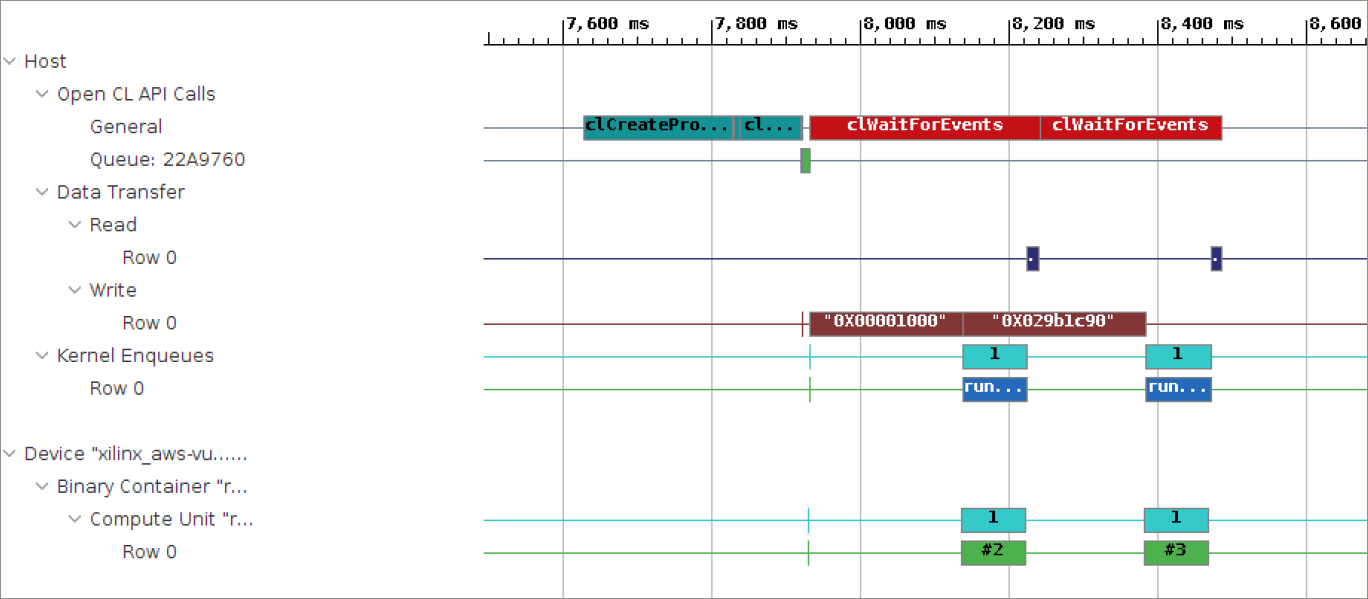
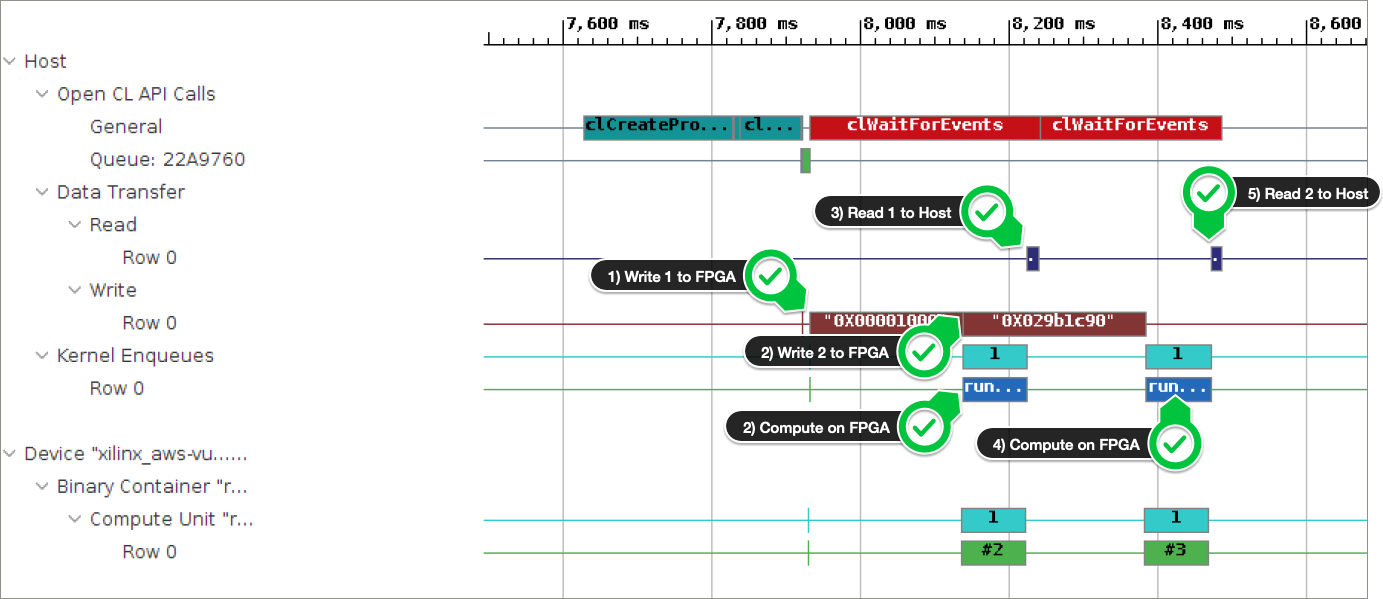
Added annotations and fixed trace step for double buffer

diff --git a/modules/module_01/data_movement.md b/modules/module_01/data_movement.md
@@ -84,7 +84,9 @@ As expected, there is a sequential execution of operations starting from the dat
 
 ### Conclusion
 
-From the above Profile Summary and Timeline Trace reports, you see that the kernel execution time closely matches with the expected theoretical number. There is sequential execution with the data transfers between the FPGA and host and compute in the FPGA. To further improve performance, you can look into overlapping data transfers and compute.
+From the Profile Summary and Timeline Trace reports, you see that the kernel execution time closely matches with the expected theoretical number. There is sequential execution with the data transfers between the FPGA and host and compute in the FPGA. 
+
+To further improve performance, you can look into overlapping data transfers and compute.
 
 ## Step 2: Overlapping Data Transfer and Compute
 
@@ -95,9 +97,13 @@ To improve the performance, you can send the input buffer in multiple iterations
    ![](./images/overlap_split_buffer.PNG)
 
 ### Host Code Modifications
-  
-1. Change your working directory to `/home/centos/src/project_data/SDAccel-AWS-F1-Developer-Labs/modules/module_01/reference_files`.
 
+> **NOTE:** If you started sdx to view the profile in the previous step, you may need to exit the application to get back to the terminal.
+
+1. Change your working directory to `modules/module_01/reference_files`.
+    ```
+    cd /home/centos/src/project_data/SDAccel-AWS-F1-Developer-Labs/modules/module_01/reference_files
+    ```
 2. Open `run_split_buffer.cpp` file with a file editor.
 
 3. The lines 64-148 are modified to optimize the host code to send the input buffer in two iterations to enable overlapping of data        transfer an compute. It is explained in detail as follows
@@ -226,24 +232,29 @@ make run STEP=split_buffer SOLUTION=1
  Verification: PASS
 ```
 
- ### Timeline Trace Analysis
+### Timeline Trace Analysis
+1. Change your working directory to `modules/module_01/build/split_buffer`.
 
-1. Run the following commands to view the Timeline Trace report.
+   ```
+    cd /home/centos/src/project_data/SDAccel-AWS-F1-Developer-Labs/modules/module_01/build/split_buffer
+   ```
+   
+2. Run the following commands to view the Timeline Trace report.
 
-```
-sdx_analyze trace -f wdb -i ./timeline_trace.csv
-sdx -workspace workspace -report timeline_trace.wdb
-```
+    ```
+    sdx_analyze trace -f wdb -i ./timeline_trace.csv
+    sdx -workspace workspace -report timeline_trace.wdb
+    ```
 
-2. Zoom in to display the timeline trace report as follows:
+3. Zoom in to display the timeline trace report as follows:
 
 ![](./images/double_buffer_timeline_trace.PNG)
 
-As you can see from the Timeline Trace report , there is an overlap of the read, compute, and write operations between the first and second iterations, which improves the total execution time on the FPGA.
+As you can see from the Timeline Trace report, there is an overlap of the read, compute, and write operations between the first and second iterations, which improves the total execution time on the FPGA.
 
 ### Conclusion
 
-   From the above Profile Summary and Timeline Trace reports, you can see that the total execution time on the FPGA improved, as the time spent on theFPGA improved from the previous step due to the overlap between the data transfer and compute.
+   From the above Profile Summary and Timeline Trace reports, you can see that the total execution time on the FPGA improved, as the time spent on the FPGA improved from the previous step due to the overlap between the data transfer and compute.
 
 ## Step 3: Overlap of Data Transfer and Compute with Multiple Buffers
 
